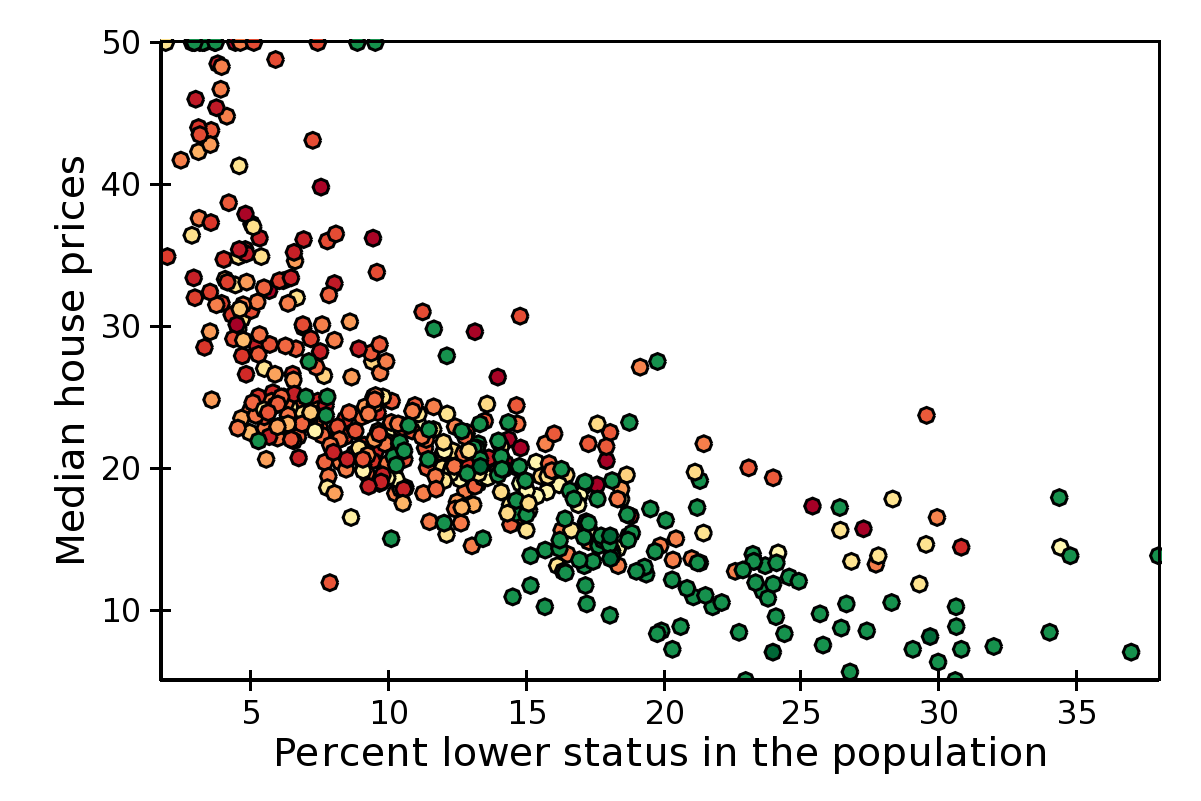
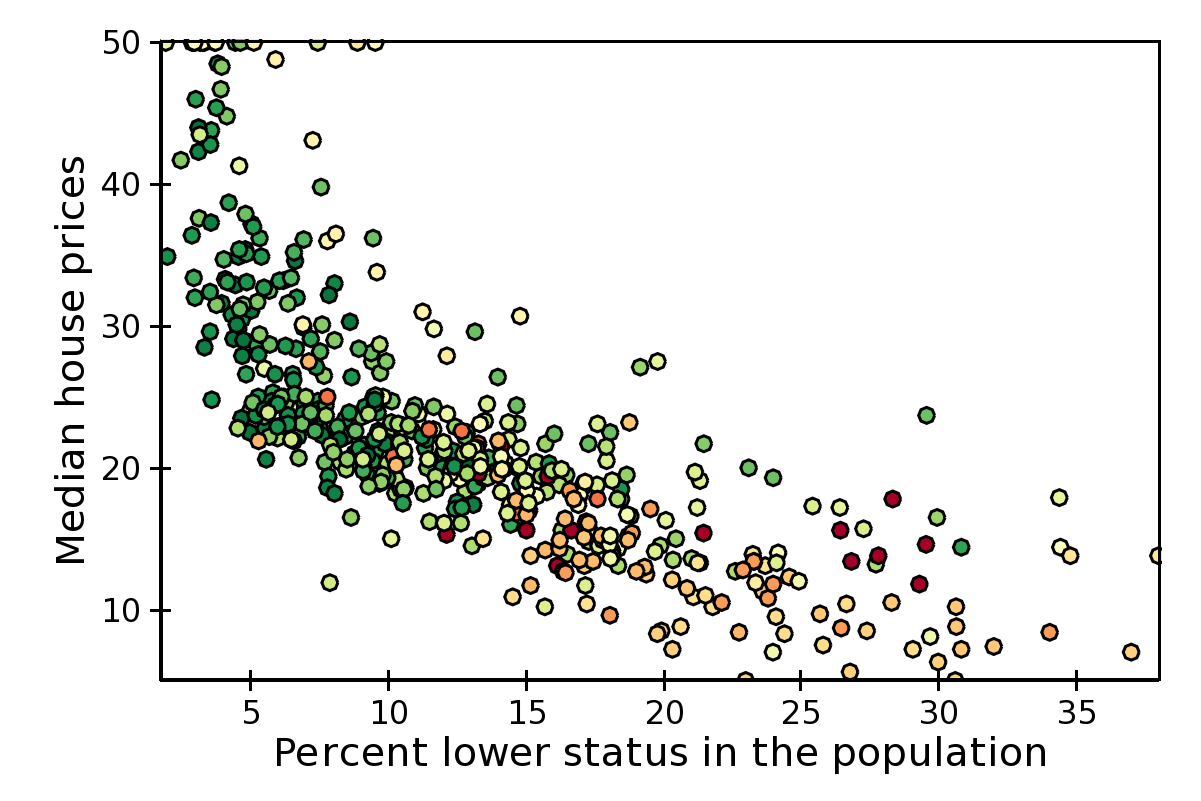
DOC Updated docs.

diff --git a/examples/user_guide/plot_types/create_plot_snapshots.py b/examples/user_guide/plot_types/create_plot_snapshots.py
@@ -25,7 +25,6 @@ from chaco.scatterplot import ScatterPlot
 from chaco.linear_mapper import LinearMapper
 from chaco.candle_plot import CandlePlot
 from chaco.colormapped_scatterplot import ColormappedScatterPlot
-from chaco.variable_size_scatterplot import VariableSizeScatterPlot
 import chaco.default_colormaps as dc
 from enable.colors import color_table
 
@@ -162,13 +161,15 @@ def get_cmap_scatter_plot():
     boston = datasets.load_boston()
     prices = boston['target']
     lower_status = boston['data'][:,-1]
-    tax = boston['data'][:,9]
+    nox = boston['data'][:,4]
 
     x, y = get_data_sources(x=lower_status, y=prices)
     x_mapper, y_mapper = get_mappers(x, y)
 
-    color_source = ArrayDataSource(tax)
-    color_mapper = dc.RdYlGn(DataRange1D(low=tax.min(), high=tax.max()))
+    color_source = ArrayDataSource(nox)
+    color_mapper = dc.reverse(dc.RdYlGn)(
+        DataRange1D(low=nox.min(), high=nox.max())
+    )
 
     scatter_plot = ColormappedScatterPlot(
         index=x, value=y,
@@ -176,7 +177,45 @@ def get_cmap_scatter_plot():
         color_data=color_source,
         color_mapper=color_mapper,
         marker='circle',
-        title='Colors represent property-tax rate',
+        title='Color represents nitric oxides concentration',
+        render_method='bruteforce',
+        **PLOT_DEFAULTS
+    )
+
+    add_axes(scatter_plot, x_label='Percent lower status in the population',
+             y_label='Median house prices')
+
+    return scatter_plot
+
+
+def get_4d_scatter_plot():
+    boston = datasets.load_boston()
+    prices = boston['target']
+    lower_status = boston['data'][:,-1]
+    tax = boston['data'][:,9]
+    nox = boston['data'][:,4]
+
+    x, y = get_data_sources(x=lower_status, y=prices)
+    x_mapper, y_mapper = get_mappers(x, y)
+
+    color_source = ArrayDataSource(nox)
+    color_mapper = dc.reverse(dc.RdYlGn)(
+        DataRange1D(low=nox.min(), high=nox.max())
+    )
+
+    # normalize between 0 and 10
+    marker_size = tax / tax.max() * 10.
+
+    scatter_plot = ColormappedScatterPlot(
+        index=x, value=y,
+        index_mapper=x_mapper, value_mapper=y_mapper,
+        color_data=color_source,
+        color_mapper=color_mapper,
+        fill_alpha = 0.8,
+        marker='circle',
+        marker_size=marker_size,
+        title='Size represents property-tax rate, '
+              'color nitric oxides concentration',
         render_method='bruteforce',
         **PLOT_DEFAULTS
     )
@@ -196,22 +235,18 @@ def get_variable_size_scatter_plot():
     x, y = get_data_sources(x=lower_status, y=prices)
     x_mapper, y_mapper = get_mappers(x, y)
 
-    # normalize between 0 and 30
+    # normalize between 0 and 10
     marker_size = tax / tax.max() * 10.
 
-    print zip(lower_status, tax)
-
-    scatter_plot = VariableSizeScatterPlot(
+    scatter_plot = ScatterPlot(
         index=x, value=y,
         index_mapper=x_mapper, value_mapper=y_mapper,
-        marker_size=marker_size,
         marker='circle',
-        title='Colors represent property-tax rate',
-        render_method='bruteforce',
+        marker_size=marker_size,
+        title='Size represents property-tax rate',
         **PLOT_DEFAULTS
     )
     scatter_plot.color = (0.0, 1.0, 0.3, 0.4)
-
 
     add_axes(scatter_plot, x_label='Percent lower status in the population',
              y_label='Median house prices')
@@ -643,6 +678,7 @@ all_examples = {
     'line_connectedhold': get_line_plot_connectedhold,
     'scatter': get_scatter_plot,
     'cmap_scatter': get_cmap_scatter_plot,
+    '4d_scatter': get_4d_scatter_plot,
     'vsize_scatter': get_variable_size_scatter_plot,
     'jitter': get_jitter_plot,
     'candle': get_candle_plot,
@@ -662,7 +698,7 @@ all_examples = {
 
 
 if __name__ == '__main__':
-    name = 'line'
+    name = 'vsize_scatter'
 
     factory_func = all_examples[name]
     plot = factory_func()

diff --git a/docs/source/user_manual/plot_types.rst b/docs/source/user_manual/plot_types.rst
@@ -87,7 +87,9 @@ by the parameters
       ``demo/basic/scatter_custom_marker.py`` in the Chaco examples directory).
 
     :attr:`~chaco.scatterplot.ScatterPlot.marker_size`
-      Size of the marker in pixels, not including the outline (default is 4.0).
+      Size of the marker in pixels, not including the outline. This can be
+      either a scalar (default is 4.0), or an array with one size per data
+      point.
 
     :attr:`~chaco.scatterplot.ScatterPlot.line_width`
       Width of the outline around the markers (default is 1.0). If this is 0.0,
@@ -99,9 +101,16 @@ by the parameters
     :attr:`~chaco.scatterplot.ScatterPlot.outline_color`
         The color of the outline to draw around the marker (default is black).
 
+This is an example with fixed point size:
+
 .. image:: images/user_guide/scatter_plot.png
   :width: 500px
 
+The same example, using marker size to map property-tax rate
+(larger is higher):
+
+.. image:: images/user_guide/vsize_scatter_plot.png
+  :width: 500px
 
 Colormapped Scatter Plot
 ========================
@@ -139,30 +148,17 @@ these attributes:
       In practice, there is not much performance difference between the two
       methods.
 
-In this example plot, color represents property-tax rate (red is low,
-green is high):
+In this example plot, color represents nitric oxides concentration (green
+is low, red is high):
 
 .. image:: images/user_guide/cmap_scatter_plot.png
   :width: 500px
 
-Variable Size Scatter Plot
-==========================
+Using X,Y, color, and size we can display 4 variables at the time. In this
+example, color is again, and size is nitric oxides concentration:
 
-Alternatively, one can display additional information in a scatter plot by
-setting different sizes for the markers.
-
-The size information is controlled by the
-:attr:`~chaco.variable_size_scatterplot.VariableSizeScatterPlot.marker_size`
-attribute, that accepts an array where each element represents the size
-of the corresponding marker. Other attributes are inherited from
-the :ref:`scatter plot <scatter_plot>` class.
-
-This is the same plot as above, with the radius of the circles representing
-property-tax rate:
-
-.. image:: images/user_guide/vsize_scatter_plot.png
+.. image:: images/user_guide/4d_scatter_plot.png
   :width: 500px
-
 
 
 Candle Plot
